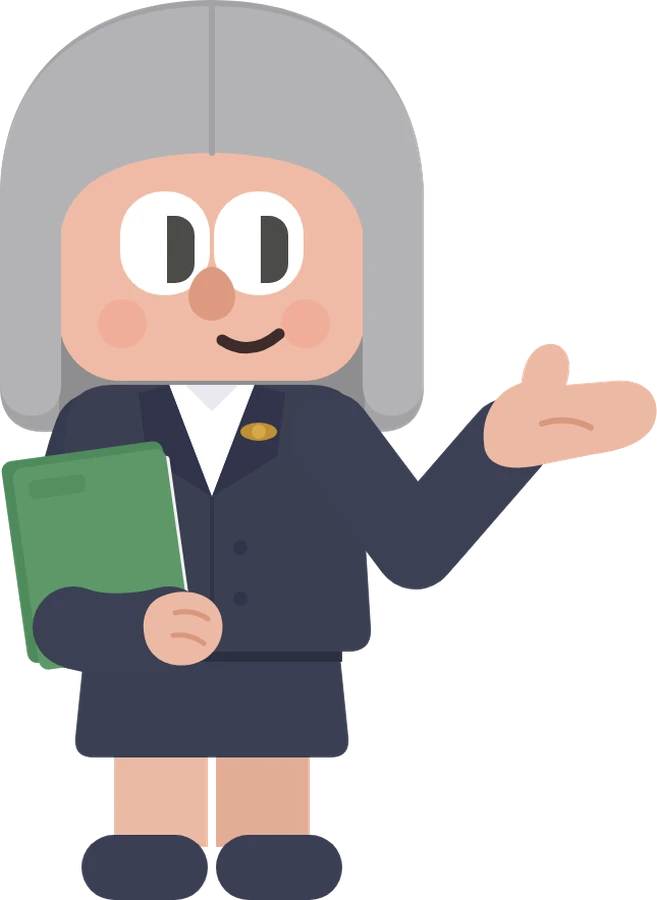
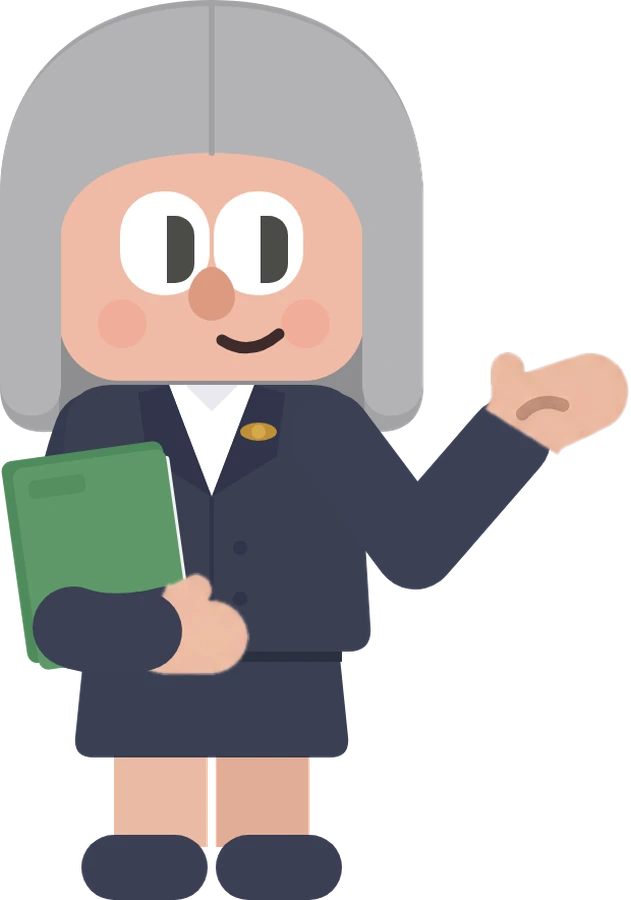
Lawyer: the doctor's hands, repainted in her skin tone

diff --git a/index.html b/index.html
@@ -462,7 +462,7 @@
                 </g>
                 <!-- a law firm: a silver bob, a navy suit, a gold pin and a green folder -->
                 <g class="ch-fit ch-fit--4">
-                  <image href="images/tbyb-law-firm.webp?v=02668896" x="164.6" y="68" width="240.9" height="330"/>
+                  <image href="images/tbyb-law-firm.webp?v=a8f71fd5" x="164.6" y="68" width="231.4" height="330"/>
                 </g>
             </g>
 

diff --git a/src/body.html b/src/body.html
@@ -349,7 +349,7 @@
                 </g>
                 <!-- a law firm: a silver bob, a navy suit, a gold pin and a green folder -->
                 <g class="ch-fit ch-fit--4">
-                  <image href="__ASSET_TBYB_LAW__" x="164.6" y="68" width="240.9" height="330"/>
+                  <image href="__ASSET_TBYB_LAW__" x="164.6" y="68" width="231.4" height="330"/>
                 </g>
             </g>
 
